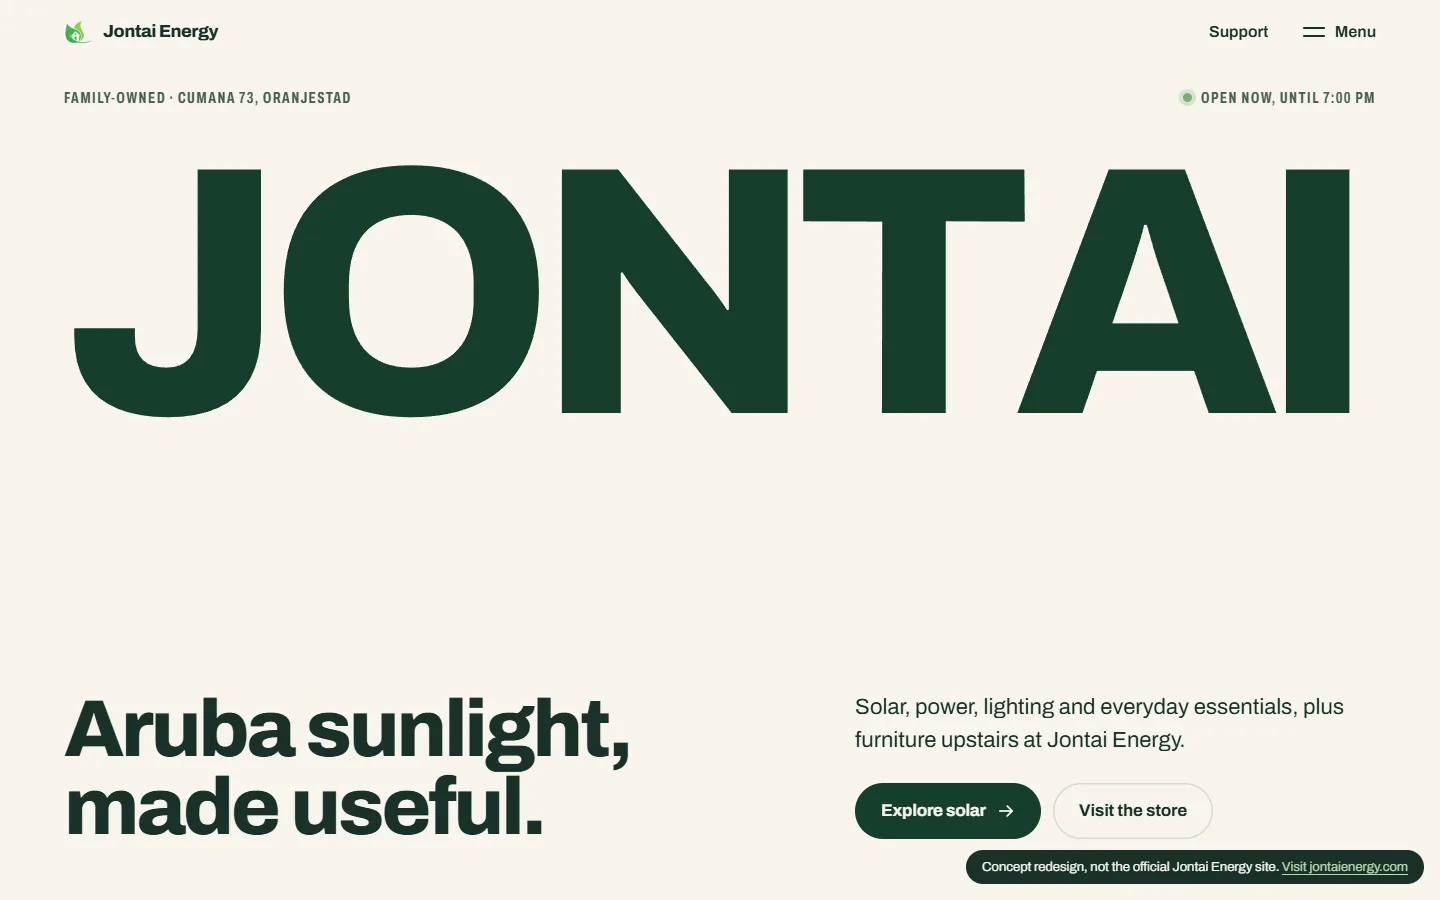
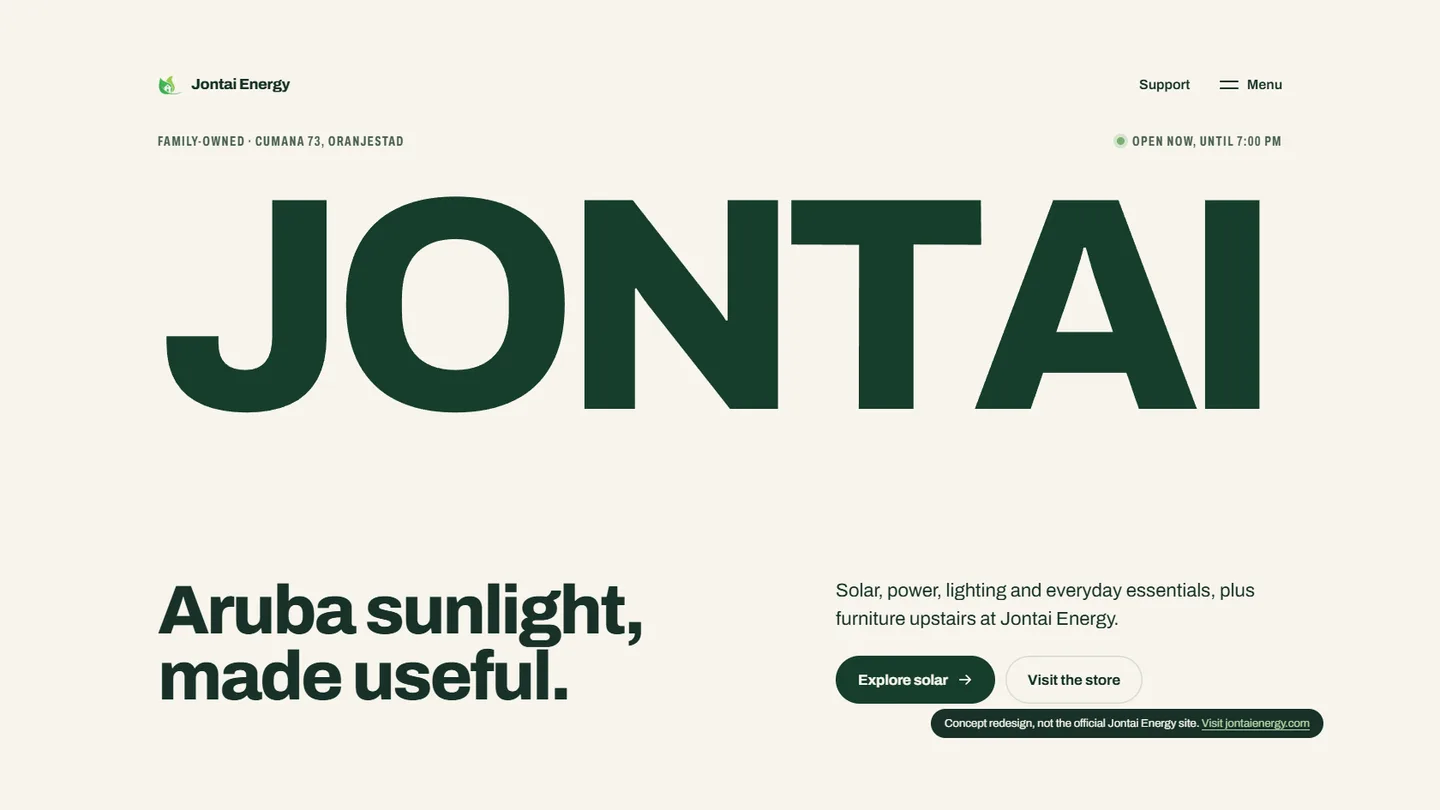
jontai: the picture at the card's 16:9, on a little more of the page's cream, so neither a laptop's card nor a phone's cuts its words

diff --git a/src/data/projects.ts b/src/data/projects.ts
@@ -314,7 +314,9 @@ export const projects = new ProjectCatalog([
     // The old static site's screenshot, which no page shows now; `imageAlt` is its text.
     image: 'jontai-energy.png',
     // The redesign as it is now (c8c9c62, 2026-10-28, type-led; Bob, round 16: "update the jontai project image"), run
-    // from a scratch copy: its first screen, the clock set to a Wednesday 11:00 in Aruba so the store reads as open.
+    // from a scratch copy: its first screen at 1440 x 810, the card's 16:9, so its headline and buttons are not cut off,
+    // set on a little more of the page's own cream round it (to 1680 x 945), so a phone's narrower card, which crops the
+    // sides, cuts none of its words; the clock set to a Wednesday 11:00 in Aruba so the store reads as open.
     pictures: [
       {
         file: 'jontai-type.webp',
